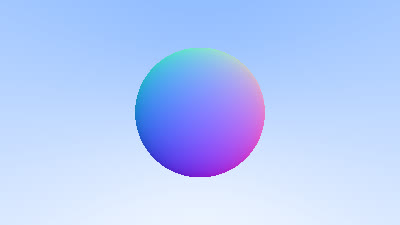
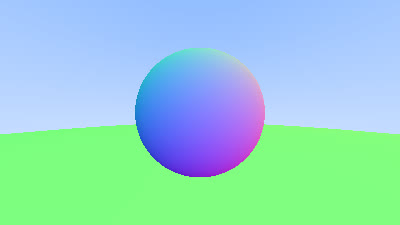
可与光线求交物体类及其子类，在场景中渲染多个物体，常用头文件类Global.h

diff --git a/MyRayTracer/src/main.cpp b/MyRayTracer/src/main.cpp
@@ -1,26 +1,15 @@
-#include <iostream>
+#include "Global.h"
+
 #include <fstream>
 
-#include "Color.h"
-#include "Vector.h"
-#include "Ray.h"
+#include "Hittable.h"
+#include "HittableList.h"
+#include "Sphere.h"
 
-float hitSphere(const vec3& center, float radius, const Ray& ray) {
-	vec3 oc = center - ray.GetOrigin();
-	float a = ray.GetDirection().norm2();
-	float h = dot(ray.GetDirection(), oc);
-	float c = oc.norm2() - radius * radius;
-	float discriminant = h * h - a * c;
-	if (discriminant < 0)
-		return -1.0f;
-	return (h - std::sqrtf(discriminant)) / a;
-}
-
-color castRay(const Ray& ray) {
-	float t = hitSphere(vec3(0.0f, 0.0f, -1.0f), 0.5f, ray);
-	if (t > 0.0f) {
-		vec3 N = (ray.at(t) - vec3(0.0f, 0.0f, -1.0f)).normalized();
-		return 0.5f * color(N + vec3(1.0f));
+color castRay(const Ray& ray, const Hittable& world) {
+	HitPayload payload;
+	if (world.hit(ray, 0.0f, infinity, payload)) {
+		return 0.5f * (payload.normal + color(1.0f));
 	}
 
 	vec3 unit_dir = ray.GetDirection().normalized();
@@ -33,6 +22,10 @@ int main()
 	int Width = 400;
 	int Height = 225;
 	float aspect_ratio = (float)Width / Height;
+
+	HittableList world;
+	world.add(std::make_shared<Sphere>(vec3(0.0f, 0.0f, -1.0f), 0.5f));
+	world.add(std::make_shared<Sphere>(vec3(0.0f, -100.5f, -1.0f), 100.0f));
 
 	// Camera
 	float focal_length = 1.0f;
@@ -66,7 +59,7 @@ int main()
 			vec3 pixel_center = pixel00_loc + ((float)i * pixel_delta_u) + ((float)j * pixel_delta_v);
 			Ray ray(camera_center, pixel_center - camera_center);
 
-			color pixel_color = castRay(ray);
+			color pixel_color = castRay(ray, world);
 			write_color(out, pixel_color);
 		}
 	}

diff --git a/MyRayTracer/src/Sphere.h b/MyRayTracer/src/Sphere.h
@@ -1,0 +1,39 @@
+#pragma once
+
+#include "Hittable.h"
+
+class Sphere : public Hittable
+{
+public:
+	Sphere(const vec3& center, float radius) : center(center), radius(radius) {}
+
+	bool hit(const Ray& ray, float tmin, float tmax, HitPayload& payload) const override {
+		vec3 oc = center - ray.GetOrigin();
+		float a = ray.GetDirection().norm2();
+		float h = dot(ray.GetDirection(), oc);
+		float c = oc.norm2() - radius * radius;
+		float discriminant = h * h - a * c;
+		if (discriminant < 0)
+			return false;
+
+		float sqrtd = std::sqrtf(discriminant);
+
+		float root = (h - sqrtd) / a;
+		if (root <= tmin || root >= tmax) {
+			root = (h + sqrtd) / a;
+			if (root <= tmin || root >= tmax)
+				return false;
+		}
+
+		payload.p = ray.at(root);
+		vec3 outwardNormal = (payload.p - center) / radius;
+		payload.SetFaceNormal(ray, outwardNormal);
+		payload.t = root;
+
+		return true;
+	}
+
+private:
+	vec3 center;
+	float radius;
+};

diff --git a/MyRayTracer/src/HittableList.h b/MyRayTracer/src/HittableList.h
@@ -1,0 +1,35 @@
+#pragma once
+
+#include "Global.h"
+#include "Hittable.h"
+
+#include <vector>
+
+class HittableList : public Hittable
+{
+public:
+	HittableList() = default;
+	HittableList(std::shared_ptr<Hittable> object) { add(object); }
+
+	void clear() { objects.clear(); }
+
+	void add(std::shared_ptr<Hittable> object) { objects.push_back(object); }
+
+	bool hit(const Ray& ray, float tmin, float tmax, HitPayload& payload) const {
+		HitPayload tmpPayload;
+		bool hitAnything = false;
+		float currentClosest = tmax;
+
+		for (const auto& object : objects) {
+			if (object->hit(ray, tmin, currentClosest, tmpPayload)) {
+				hitAnything = true;
+				currentClosest = tmpPayload.t;
+				payload = tmpPayload;
+			}
+		}
+
+		return hitAnything;
+	}
+
+	std::vector<std::shared_ptr<Hittable>> objects;
+};

diff --git a/MyRayTracer/src/Hittable.h b/MyRayTracer/src/Hittable.h
@@ -1,0 +1,26 @@
+#pragma once
+
+#include "Global.h"
+
+struct HitPayload
+{
+	vec3 p;
+	vec3 normal;
+	float t;
+	bool front_face;
+
+	void SetFaceNormal(const Ray& ray, const vec3& outwardNormal) {
+		// Sets the hit record normal vector.
+		// NOTE: the parameter `outward_normal` is assumed to have unit length.
+		front_face = dot(ray.GetDirection(), outwardNormal) < 0.0f;
+		normal = front_face ? outwardNormal : -outwardNormal;
+	}
+};
+
+class Hittable
+{
+public:
+	virtual ~Hittable() = default;
+
+	virtual bool hit(const Ray& ray, float tmin, float tmax, HitPayload& payload) const = 0;
+};

diff --git a/MyRayTracer/src/Global.h b/MyRayTracer/src/Global.h
@@ -1,0 +1,17 @@
+#pragma once
+
+#include <cmath>
+#include <iostream>
+#include <limits>
+#include <memory>
+
+#include "Color.h"
+#include "Ray.h"
+#include "Vector.h"
+
+const float infinity = std::numeric_limits<float>::max();
+const float PI = 3.14159265358979323846;
+
+inline float Radians(float degrees) {
+	return degrees * PI / 180.0f;
+}

diff --git a/MyRayTracer/src/Vector.h b/MyRayTracer/src/Vector.h
@@ -1,7 +1,6 @@
 #pragma once
 
-#include <cmath>
-#include <iostream>
+#include "Global.h"	
 
 struct vec3
 {
